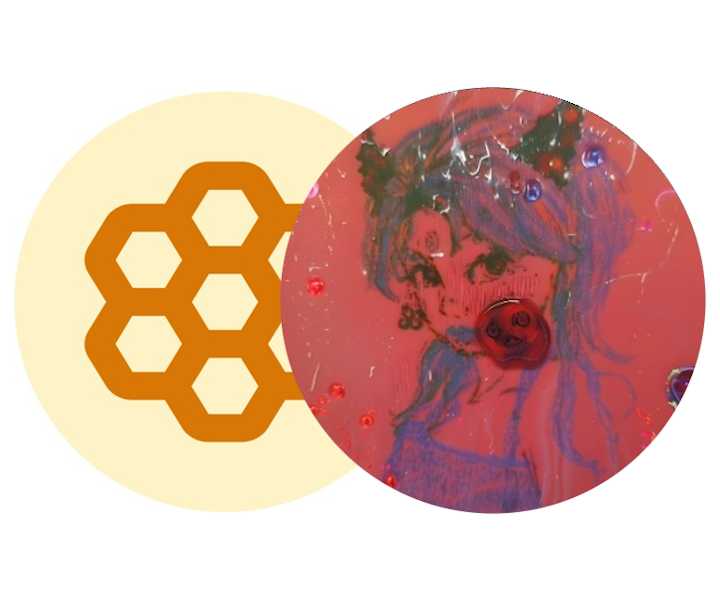
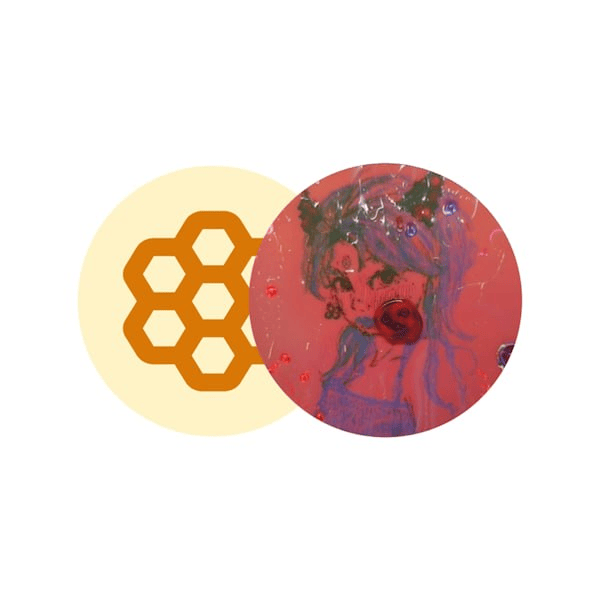
green filter

diff --git a/src/app/api/earn-data/route.ts b/src/app/api/earn-data/route.ts
@@ -4,8 +4,9 @@ const API_BASE_URL = 'https://amy-production-fd10.up.railway.app';
 
 export async function GET() {
   try {
+    // Add unique timestamp to URL to bypass any server-side fetch caching
     const response = await fetch(`${API_BASE_URL}/api/earn-data?t=${Date.now()}`, {
-        cache: 'no-store',
+        cache: 'no-store', // Force fresh data from backend
         next: { revalidate: 0 }
     });
     
@@ -16,15 +17,19 @@ export async function GET() {
     const data = await response.json();
     const backendData = data.data || {};
     
-    // UI expects 'amy-honey' and 'amy-usdt0' based on dynamicDataKey in earn/page.tsx
     return NextResponse.json({
       success: true,
       data: {
         'amy-honey': backendData['amy-honey'] || { tvl: 'TBC', apr: '0%' },
         'amy-usdt0': backendData['amy-usdt0'] || { tvl: 'TBC', apr: '0%' },
+        'jnrusd': backendData['jnrusd'] || { tvl: 'TBC', apr: '0%' },
+        'snrusd': backendData['snrusd'] || { tvl: 'TBC', apr: '0%' },
+        'sailr': backendData['sailr'] || { tvl: 'TBC', apr: '0%' },
         'plskdk': backendData['plskdk'] || { tvl: 'TBC', apr: '0%' },
-        'honeybend': { tvl: '$12.5M', apr: '8%' },
-        'stakedbera': { tvl: '$85M', apr: '21%' },
+        'plsbera': backendData['plsbera'] || { tvl: 'TBC', apr: '0%' },
+        'plvhedge': backendData['plvhedge'] || { tvl: 'TBC', apr: '0%' },
+        'honeybend': backendData['honeybend'] || { tvl: '$12.5M', apr: '8%' },
+        'stakedbera': backendData['stakedbera'] || { tvl: '$85M', apr: '21%' },
         lastUpdated: data.lastUpdated || new Date().toISOString()
       }
     });
@@ -36,6 +41,8 @@ export async function GET() {
       data: {
         'amy-honey': { tvl: 'TBC', apr: '0%' },
         'amy-usdt0': { tvl: 'TBC', apr: '0%' },
+        'jnrusd': { tvl: 'TBC', apr: '0%' },
+        'snrusd': { tvl: 'TBC', apr: '0%' },
         'plskdk': { tvl: 'TBC', apr: '0%' },
         'honeybend': { tvl: '$12.5M', apr: '8%' },
         'stakedbera': { tvl: '$85M', apr: '21%' },

diff --git a/src/components/Background.tsx b/src/components/Background.tsx
@@ -112,9 +112,9 @@ export default function Background() {
   const hasCustomBg = !!(bg?.previewMobile || bg?.previewDesktop);
   const hasFilter = filter && (filter.color !== 'transparent' || filter.image) && filterId !== 'filter_none';
   
-  // Show the cyan overlay if we are on the landing page OR if we are using the default background
-  // This ensures a consistent "Amy" look for new users across the entire app
-  const showOverlay = (customization === undefined || customization === null) || backgroundId === 'bg_default';
+  // Show the cyan overlay ONLY on internal app pages if they are using the default background.
+  // We do NOT show it on the landing page (customization === null) to avoid the "green filter" bug.
+  const showOverlay = (customization !== undefined && customization !== null) && backgroundId === 'bg_default';
 
   // Fill the viewport and extend beyond for iOS Safari address bar
   const extendedStyle: React.CSSProperties = {
@@ -159,9 +159,6 @@ export default function Background() {
           }}
         />
       )}
-
-      {/* Default overlay for contrast - shown on landing page OR when using default bg */}
-      {showOverlay && <div className="bg-overlay" />}
     </>
   );
 }

diff --git a/src/app/app/points/page.tsx b/src/app/app/points/page.tsx
@@ -1224,7 +1224,7 @@ export default function PointsPage() {
             <MultiplierBadge
               name="AMY/USDT0"
               title="LP"
-              image="/usdt0.png"
+              image="/usdto.png"
               description="Provide liquidity to the AMY/USDT0 pool on Kodiak. Your AMY/USDT0 LP balance is tracked in USD and updates automatically as it changes. Multiplier adjusts automatically as your position value changes."
               multipliers={[
                 { requirement: '$10+', multiplier: 'x5' },

diff --git a/src/app/app/earn/page.tsx b/src/app/app/earn/page.tsx
@@ -114,7 +114,7 @@ const STRATEGIES: Strategy[] = [
     id: 'amy-usdt0',
     name: 'AMY/USDT0 – LP',
     subtitle: 'Kodiak',
-    image: '/usdt0.png',
+    image: '/usdto.png',
     tvl: 'TBC',
     apr: 'TBC',
     amyPoints: 'Earn up to 100x',
